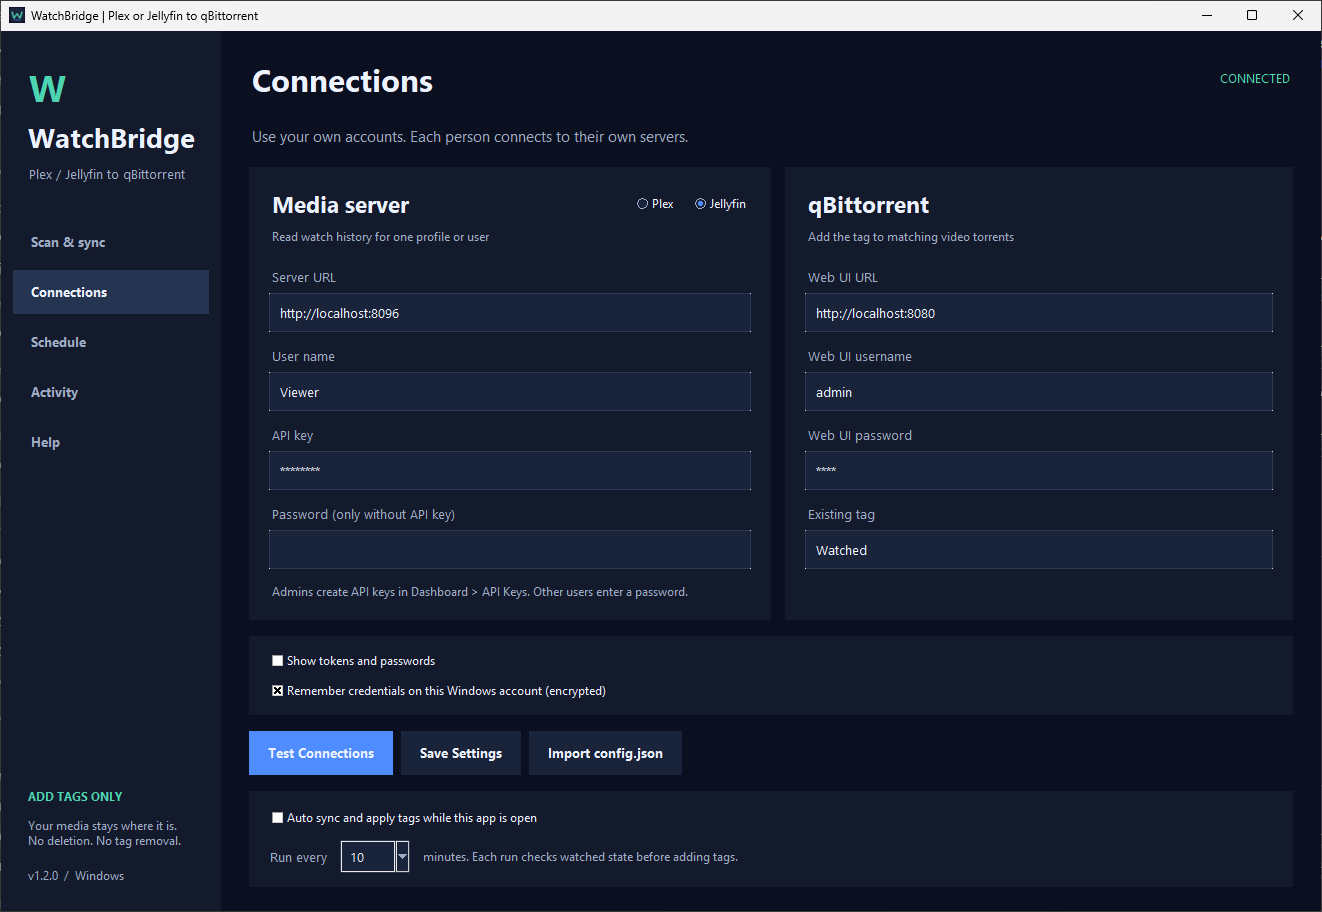
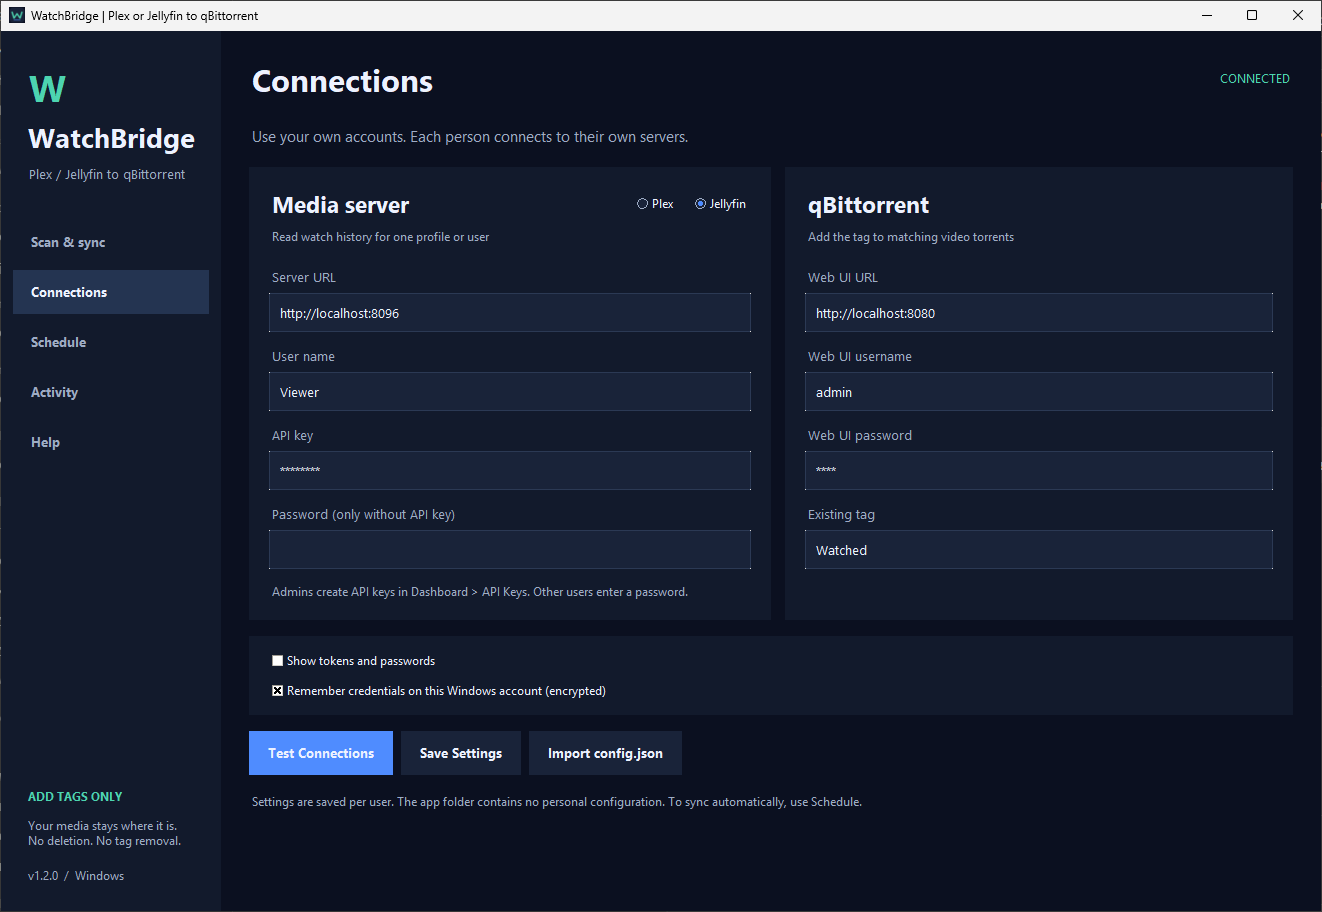
Move in-window auto sync from Connections to the Schedule page
All timing options now live on one page: the background schedule at the
top and "While this window is open" auto sync at the bottom. Update the
help text, docs and screenshots to match.

Changed region(s): [[0.1861, 0.8596, 0.6513, 0.9825]]

diff --git a/watchbridge.py b/watchbridge.py
@@ -308,28 +308,19 @@ class App(tk.Tk):
         self.save_button.pack(side='left', padx=8)
         self.import_button = self.button(actions, 'Import config.json', self.import_settings)
         self.import_button.pack(side='left')
-        auto_frame = tk.Frame(parent, bg=PANEL, padx=18, pady=14)
-        auto_frame.pack(fill='x')
-        ttk.Checkbutton(auto_frame, text='Auto sync and apply tags while this app is open', variable=self.auto,
-                         command=self.auto_changed).pack(anchor='w')
-        row = tk.Frame(auto_frame, bg=PANEL)
-        row.pack(fill='x', pady=(10, 0))
-        self.label(row, 'Run every', 10, MUTED, PANEL).pack(side='left')
-        ttk.Combobox(row, textvariable=self.vars['interval'], state='readonly',
-                     values=['5', '10', '15', '30', '60'], width=5).pack(side='left', padx=10)
-        self.label(row, 'minutes. Each run checks watched state before adding tags.', 9, MUTED, PANEL).pack(side='left')
         self.label(parent, 'Settings are saved per user. The app folder contains no personal configuration. '
-                   'To run with this window closed, use Schedule.', 9, MUTED).pack(anchor='w', pady=(14, 0))
+                   'To sync automatically, use Schedule.', 9, MUTED).pack(anchor='w')
 
     def _schedule(self, parent):
-        self.label(parent, 'Run WatchBridge in the background with this window closed, while you are signed in to Windows.',
+        self.label(parent, 'Choose when WatchBridge syncs on its own: in the background, or only while this window is open.',
                    11, MUTED).pack(anchor='w', pady=(0, 18))
         card = tk.Frame(parent, bg=PANEL, padx=20, pady=18)
         card.pack(fill='x')
         self.label(card, 'Background schedule', 17, TEXT, PANEL, True).pack(anchor='w')
-        self.label(card, 'Each run scans, then adds the tag to all ready torrents only when the scan has no errors. '
-                   'Uses Windows Task Scheduler; no administrator rights or Windows service.',
-                   9, MUTED, PANEL).pack(anchor='w', pady=(4, 16))
+        self.label(card, 'Runs with this window closed while you are signed in to Windows, through Windows Task Scheduler '
+                   '(no administrator rights or service). Each run scans, then tags all ready torrents only when the scan '
+                   'has no errors. Saving also saves your connection settings, which must be remembered.',
+                   9, MUTED, PANEL, justify='left', wraplength=1000).pack(anchor='w', pady=(4, 16))
         self.schedule_mode = tk.StringVar(value=scheduler.MODES.get(self.vars['schedule_mode'].get(), 'Off'))
         self.day_vars = {}
         try:
@@ -406,9 +397,18 @@ class App(tk.Tk):
         self.schedule_status = tk.StringVar(value='Reading Task Scheduler...')
         tk.Label(status, textvariable=self.schedule_status, bg=PANEL, fg=TEXT, justify='left', anchor='w',
                  font=('Consolas', 10), wraplength=1000).pack(anchor='w')
-        self.label(parent, 'Saving the schedule also saves your connection settings, which must be remembered. '
-                   'Command line: WatchBridgeCLI schedule set interval --every 30m  |  schedule show  |  schedule off',
-                   9, MUTED, wraplength=1000, justify='left').pack(anchor='w', pady=(14, 0))
+        # The in-app timer: no saved credentials needed, but it stops when the window closes.
+        window = tk.Frame(parent, bg=PANEL, padx=18, pady=14)
+        window.pack(fill='x', pady=(16, 0))
+        self.label(window, 'WHILE THIS WINDOW IS OPEN', 9, MUTED, PANEL, True).pack(anchor='w', pady=(0, 6))
+        row = tk.Frame(window, bg=PANEL)
+        row.pack(fill='x')
+        ttk.Checkbutton(row, text='Auto sync and apply tags every', variable=self.auto,
+                        command=self.auto_changed).pack(side='left')
+        ttk.Combobox(row, textvariable=self.vars['interval'], state='readonly',
+                     values=['5', '10', '15', '30', '60'], width=5).pack(side='left', padx=10)
+        self.label(row, 'minutes. Off at every start; errors turn it off. Works without remembered credentials.',
+                   9, MUTED, PANEL).pack(side='left')
         self.schedule_refreshing = False
         self.show_schedule_fields()
 

diff --git a/helptext.py b/helptext.py
@@ -19,9 +19,10 @@ GUIDE = (
     'change watched state on the media server. A later change to unwatched will not remove an existing tag. '
     'Credentials are optional to remember and are encrypted with Windows DPAPI for your account. '
     'Plex profile verification requires access to plex.tv.\n\n'
-    'AUTO SYNC IN THIS WINDOW\nAuto sync is off at startup. When enabled, each interval performs a dry scan and '
-    'then applies tags to all ready torrents. It only runs while this app is open. '
-    'Errors disable auto sync. Stop interrupts after the current network request finishes.\n\n'
+    'AUTO SYNC WHILE THIS WINDOW IS OPEN\nAt the bottom of the Schedule page. It is off at startup. When enabled, '
+    'each interval performs a dry scan and then applies tags to all ready torrents. It only runs while this app is '
+    'open and does not need remembered credentials. Errors disable auto sync. Stop interrupts after the current '
+    'network request finishes.\n\n'
     'BACKGROUND SCHEDULE\nThe Schedule page runs WatchBridge with this window closed, through Windows Task '
     'Scheduler, while you are signed in to Windows: every X minutes, daily or weekly at set times, at sign-in, '
     'or in real time. Real time listens for playback and watched-state events from Plex or Jellyfin and syncs '

diff --git a/README.he.md b/README.he.md
@@ -148,7 +148,8 @@ Jellyfin שרץ ב-Docker או ב-Linux מדווח בדרך כלל נתיבים 
 דוחות אוטומטיים נשמרים לאחר סריקות ועדכוני תגיות. אפשר לפתוח אותם דרך
 **Activity > Open Reports Folder**.
 
-אפשר להפעיל **Auto sync and apply tags while this app is open** ולבחור מרווח זמן.
+בתחתית עמוד **Schedule**, בחלק **While this window is open**, אפשר להפעיל
+**Auto sync and apply tags every** ולבחור מרווח זמן. זה עובד רק כשהחלון פתוח, ולא דורש לזכור סיסמאות.
 האפשרות כבויה בכל הפעלה מחדש. הריצה האוטומטית מטפלת בכל הטורנטים המוכנים,
 ללא קשר לבחירה בטבלה, ומפסיקה במקרה של שגיאות. עצירה נכנסת לתוקף לאחר בקשת
 הרשת הנוכחית. תגיות שכבר נוספו נשארות ואפשר לבדוק אותן בסריקה נוספת.

diff --git a/README.md b/README.md
@@ -139,8 +139,9 @@ Choose **All ready torrents** or select rows with Ctrl/Shift and choose
 reports are accessible through **Activity > Open Reports Folder**. Non-video
 torrents are excluded from the table and reports.
 
-Optional auto sync scans and applies tags to all ready torrents at your chosen
-interval, while the app is open. It starts disabled, ignores table selections and
+Optional auto sync, under **Schedule > While this window is open**, scans and applies tags to
+all ready torrents at your chosen interval while the app is open, without remembered
+credentials. It starts disabled, ignores table selections and
 filters, and stops on errors. Stop takes effect after the current network request;
 tags already added remain. Existing tags are never removed when a title becomes
 unwatched on the media server.

diff --git a/CHANGELOG.md b/CHANGELOG.md
@@ -13,6 +13,8 @@
 - Add a full command line, `WatchBridgeCLI`, with every window option: test, scan/dry-run with
   filters, JSON and CSV, apply all or selected torrents, sync, auto, config, schedule, agent,
   reports and logs. Secrets can be prompted for or read from `WATCHBRIDGE_*` variables.
+- Move the in-window auto sync from Connections to the Schedule page ("While this window is open"),
+  so all timing options are in one place.
 - The build now produces `WatchBridgeCLI.exe` beside `WatchBridge.exe`.
 - New dependency: `websocket-client`.
 - Replace documentation screenshots with demo data, and add Schedule screenshots.
